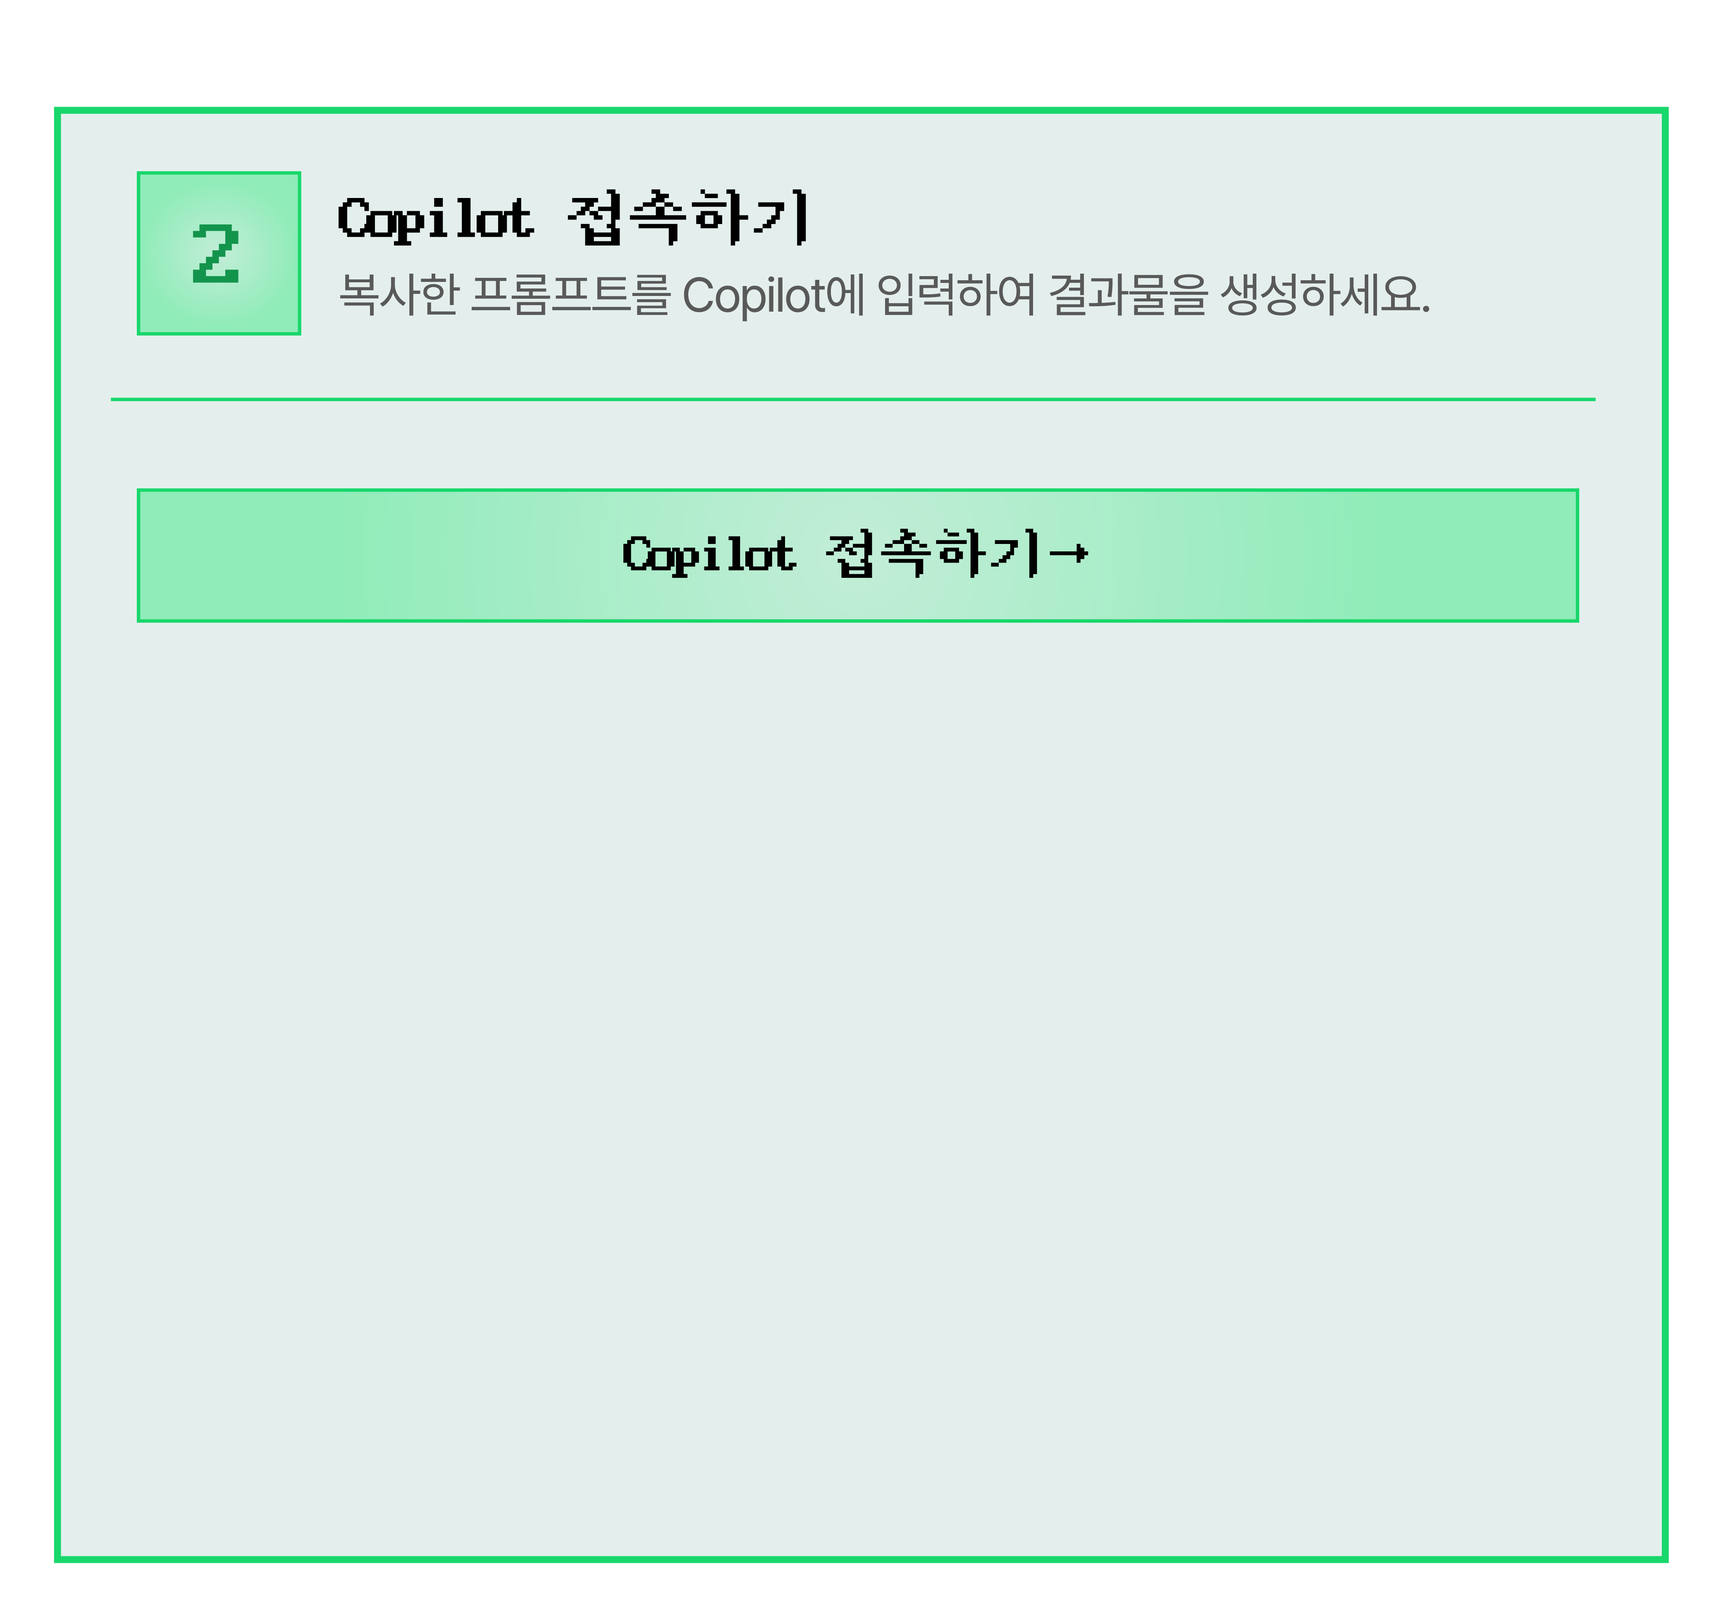
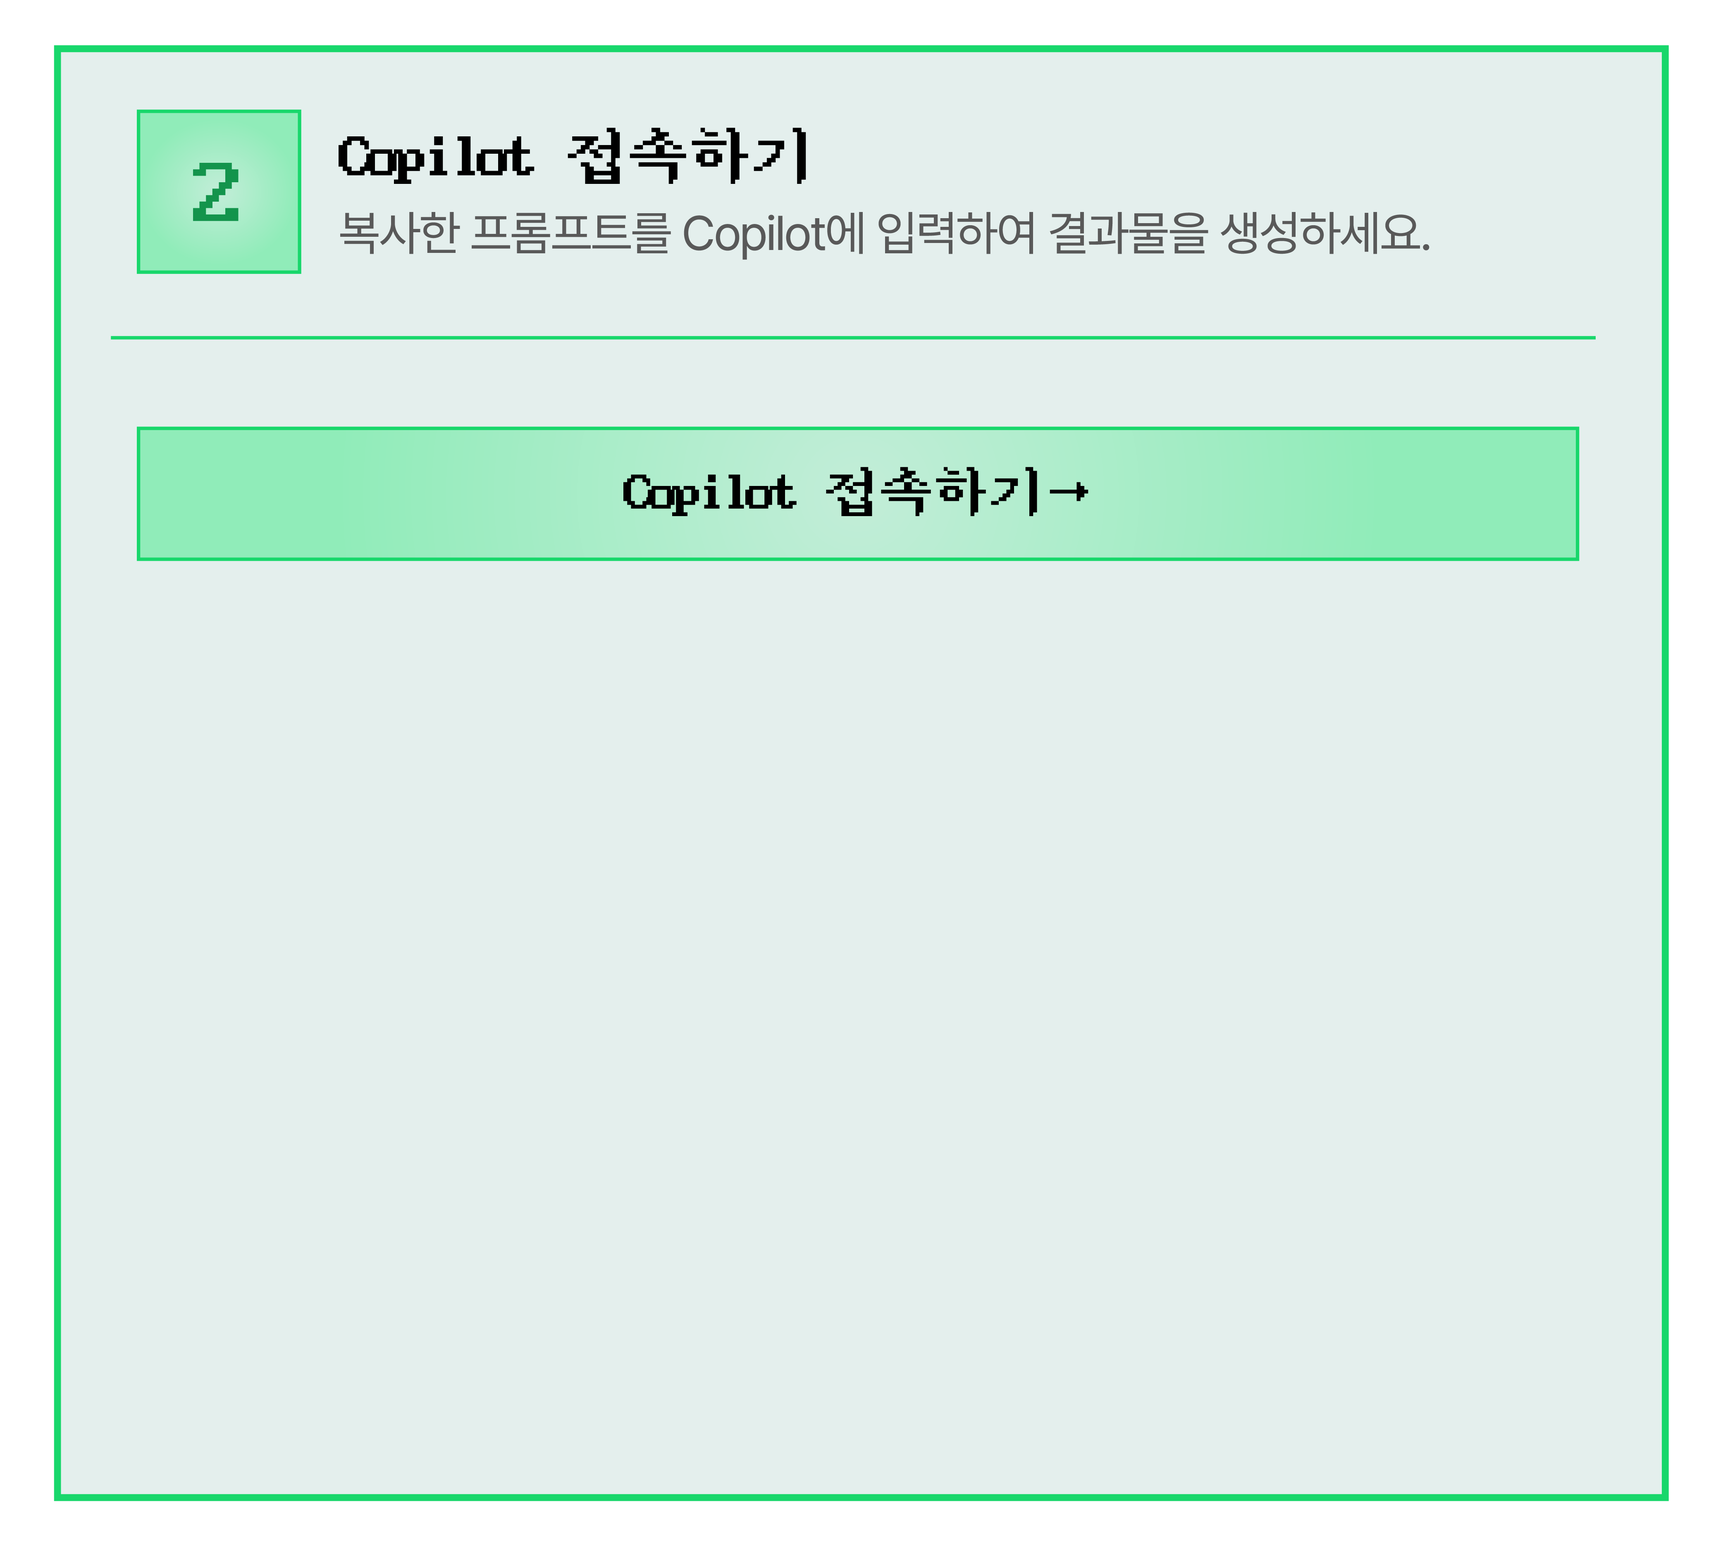
배경을 wallpaper 로 교체하고 비행기 스프라이트 적용, 이미지 용량 최적화
배경
- wallpaper 를 페이지 전체 고정 배경(#bg)으로 깔고 .stage 배경을 투명 처리
  → 02~06 이미지의 투명 여백으로 배경과 게임이 그대로 비쳐 하나의 게임 화면처럼 이어짐
- 레이어 순서 정리: wallpaper(0) → 게임 캔버스(1) → 스캔라인(2) → 본문(3) → HUD(4)
- 캔버스가 그리던 가짜 바다 배경(그라데이션·섬) 제거, 속도감용 포말만 유지

게임
- 플레이어기·적기를 Airplanes.png 스프라이트로 교체
  (플레이어 48px / 소형 적기 39px / 대형 적기 72px + 붉은 틴트)
  표시 크기의 2배로 미리 축소해 캐싱 — 매 프레임 1/10 축소 시 계단 현상 방지
  스프라이트 로딩 실패 시 기존 픽셀 드로잉으로 폴백
- 총알 발사 위치와 피격 범위를 새 스프라이트 크기에 맞춰 재조정
- 플레이어 시작 위치를 화면 중앙 → 왼쪽 여백으로 이동 (중앙은 본문에 가려 안 보임)
- HUD 상단에 파일럿 초상화(player.webp) 추가, 밝은 하늘 위 가독성을 위해 반투명 패널 적용

용량 (9.3MB → 2.2MB)
- wallpaper 4,419KB → 431KB, PD06-01 3,482KB → 668KB, player 503KB → 24KB (webp)
- 변환 원본 PNG 는 .gitignore 로 제외, 재변환 명령을 주석으로 남김

교체된 이미지에 맞춰 카드 슬라이스 높이 재실측 반영 (비율 0.9427 → 0.9069)
- 03·05 24% → 20.42%, 04 36.85% → 33.28%

Changed region(s): [[0.0312, 0.0312, 0.9669, 0.2185], [0.0624, 0.2497, 0.9357, 0.4058], [0.0312, 0.9365, 0.9669, 0.9677]]

diff --git a/index.html b/index.html
@@ -10,13 +10,15 @@
 <style>
 /* ══════════════════════════════════════════════════════════════
    PLAYDAY 06  —  이미지 원본 + 내용 영역만 세로로 늘어나는 구조
-   원본 이미지에서 추출한 값
-     · 패널 좌우 : 다크 0~3.12% / 네온 3.12~3.55% / 민트 3.55~96.45%
+   원본 이미지(2026-08-20 교체본)에서 실측한 값
+     · 프레임 좌우 : 투명 0~3.143% / 네온 3.143~3.527% / 민트 3.551~96.449%
+                     / 네온 96.449~96.833% / 투명 96.833~100%
+     · 02~06 은 바깥 여백이 투명 → 뒤의 wallpaper.png + 슈팅게임 캔버스가 그대로 비침
      · 콘텐츠 정렬선 : 좌우 8%
-     · 이미지 비율 : 4168 x 4395  (h/w = 1.0545)
+     · 이미지 비율 : 01) 4167x2997  02) 4167x2983  03~06) 4168x3780 (h/w = 0.9069)
    ══════════════════════════════════════════════════════════════ */
 :root{
-  --ink:       #061A18;
+  --sea:       #1B4E7C;   /* wallpaper 평균 바다색 — 배경 로딩 전 대체색 */
   --neon:      #18D76B;
   --neon-dark: #0F7A41;
   --btn:       #A7E8C2;
@@ -33,27 +35,44 @@
 html{ scroll-behavior:smooth; }
 body{
   margin:0; padding:0;
-  background:var(--ink);
+  background:var(--sea);
   font-family:var(--font);
   -webkit-font-smoothing:antialiased;
   overflow-x:hidden;
 }
 
-/* ── 배경 슈팅게임 ─────────────────────────────── */
-#sky{ position:fixed; inset:0; width:100%; height:100%; z-index:0; display:block; }
+/* ── 배경 레이어 ───────────────────────────────
+   0 wallpaper  →  1 슈팅게임 캔버스  →  2 스캔라인  →  3 본문  →  4 HUD
+   02~06 이미지는 바깥 여백이 투명이라 이 배경이 그대로 비쳐 하나의 게임 화면처럼 이어진다. */
+#bg{
+  position:fixed; inset:0; z-index:0; pointer-events:none;
+  background:
+    linear-gradient(rgba(2,16,34,.22), rgba(2,16,34,.42)),
+    url('wallpaper.webp') center center / cover no-repeat,
+    var(--sea);
+}
+#sky{ position:fixed; inset:0; width:100%; height:100%; z-index:1; display:block; }
 #scan{
-  position:fixed; inset:0; z-index:1; pointer-events:none;
+  position:fixed; inset:0; z-index:2; pointer-events:none;
   background:repeating-linear-gradient(to bottom, rgba(0,0,0,.16) 0 1px, transparent 1px 3px);
   opacity:.45;
 }
 /* ── 아케이드 HUD (본문 오른쪽) ────────────────── */
 #hud{
   display:none;               /* 본문 옆에 자리가 있을 때만 표시 (아래 미디어쿼리) */
-  position:fixed; top:18px; z-index:3; pointer-events:none;
-  width:132px;
+  position:fixed; top:18px; z-index:4; pointer-events:none;
+  width:150px; padding:12px 13px 11px;
+  /* 밝은 하늘 위에서도 읽히도록 반투명 콘솔 패널 */
+  background:rgba(3,20,38,.66);
+  border:1px solid rgba(126,196,236,.40);
+  box-shadow:0 6px 22px rgba(2,14,28,.45);
   font-family:ui-monospace,'Consolas','Menlo',monospace;
   font-size:12px; font-weight:700; letter-spacing:1px; line-height:1.6;
-  color:#DCEEF7; text-shadow:0 0 8px rgba(10,58,92,.9), 0 1px 0 #02121F;
+  color:#EAF6FD; text-shadow:0 1px 2px rgba(2,14,28,.9);
+}
+#hud .pilot{
+  display:block; width:100%; height:auto; margin:0 0 11px;
+  image-rendering:pixelated;   /* 픽셀아트 초상화 — 뭉개지지 않게 */
 }
 #hud .row{ display:flex; justify-content:space-between; align-items:baseline; }
 #hud .k{ color:#8FC4E4; font-weight:500; font-size:10px; letter-spacing:2px; }
@@ -80,10 +99,11 @@ body{
 
 /* ── 스테이지 ─────────────────────────────────── */
 .stage{
-  position:relative; z-index:2;
+  position:relative; z-index:3;
   width:100%; max-width:1000px; margin:0 auto;
-  background:var(--ink);
-  box-shadow:0 0 70px 24px rgba(6,26,24,.96);
+  /* 배경 없음 — 02~06 이미지의 투명 여백으로 #bg(wallpaper)와 캔버스가 그대로 비친다 */
+  background:transparent;
+  box-shadow:0 0 80px 26px rgba(2,18,38,.55);
 }
 
 /* 통이미지 섹션 (01 · 02 · 06) */
@@ -110,15 +130,16 @@ body{
 .card-top{ padding-top:var(--h); background-position:0 0;   margin-bottom:-1px; }
 .card-bot{ padding-top:var(--h); background-position:0 100%; margin-top:-1px; }
 
+/* 원본 이미지의 좌우 구성을 그대로 재현. 바깥쪽은 투명하게 두어
+   .stage 배경(=02 이미지와 같은 딥틸)이 위아래 이미지와 이어지게 한다. */
 .card-mid{
   background-image:
     linear-gradient(to right,
-      rgba(0,0,0,0) 3.12%,
-      #18D76B 3.12%, #18D76B 3.55%,
-      #E4EFED 3.55%, #E4EFED 96.45%,
-      #18D76B 96.45%, #18D76B 96.88%,
-      rgba(0,0,0,0) 96.88%),
-    linear-gradient(to bottom, #071917 0%, #03201D 45%, #051C1A 100%);
+      transparent 3.143%,
+      var(--neon) 3.143%, var(--neon) 3.527%,
+      var(--panel) 3.551%, var(--panel) 96.449%,
+      var(--neon) 96.449%, var(--neon) 96.833%,
+      transparent 96.833%);
 }
 .card-in{ padding:28px 8% 34px; color:var(--text); }
 
@@ -227,9 +248,11 @@ input::placeholder{ color:#9DB2AA; }
 
 <body>
 
+<div id="bg" aria-hidden="true"></div>
 <canvas id="sky" aria-hidden="true"></canvas>
 <div id="scan" aria-hidden="true"></div>
 <div id="hud" aria-hidden="true">
+  <img class="pilot" src="player.webp" alt="" />
   <div class="row"><span class="k">1P</span><span class="v" id="score">000000</span></div>
   <div class="row blk"><span class="k">STAGE</span><span class="v stage" id="stage">1-1</span></div>
   <div class="row blk"><span class="k">POWER</span><span class="v" id="plv">Lv1</span></div>
@@ -242,7 +265,7 @@ input::placeholder{ color:#9DB2AA; }
 
   <!-- ══ 01. 히어로 ══════════════════════════════ -->
   <section class="shot">
-    <img src="이미지/PD06-01.png"
+    <img src="이미지/PD06-01.webp"
          alt="PLAYDAY - 동료들과 함께 즐길 수 있는 게임 제작!" />
   </section>
 
@@ -260,7 +283,7 @@ input::placeholder{ color:#9DB2AA; }
   <!-- ══ 03. STEP 1 게임 기획하기 ═════════════════ -->
   <section class="card" id="step1">
     <div class="card-top" role="img" aria-label="1. 게임 기획하기 - 만들고 싶은 게임을 자유롭게 적어주세요."
-         style="--h:25.432%; background-image:url('이미지/PD06-03.png');"></div>
+         style="--h:20.42%; background-image:url('이미지/PD06-03.png');"></div>
 
     <div class="card-mid"><div class="card-in">
 
@@ -332,13 +355,13 @@ input::placeholder{ color:#9DB2AA; }
     </div></div>
 
     <div class="card-bot" aria-hidden="true"
-         style="--h:17.635%; background-image:url('이미지/PD06-03.png');"></div>
+         style="--h:4.68%; background-image:url('이미지/PD06-03.png');"></div>
   </section>
 
   <!-- ══ 04. STEP 2 Copilot 접속하기 ══════════════ -->
   <section class="card" id="step2">
     <div class="card-top" role="img" aria-label="2. Copilot 접속하기 - 복사한 프롬프트를 Copilot에 입력하여 결과물을 생성하세요."
-         style="--h:37.428%; background-image:url('이미지/PD06-04.png');">
+         style="--h:33.28%; background-image:url('이미지/PD06-04.png');">
       <a class="hot" href="https://m365.cloud.microsoft/chat/" target="_blank" rel="noopener"
          aria-label="Copilot 접속하기"
          style="left:7.97%; top:75.77%; width:84.06%; height:20.77%;"></a>
@@ -358,13 +381,13 @@ input::placeholder{ color:#9DB2AA; }
     </div></div>
 
     <div class="card-bot" aria-hidden="true"
-         style="--h:17.635%; background-image:url('이미지/PD06-04.png');"></div>
+         style="--h:4.68%; background-image:url('이미지/PD06-04.png');"></div>
   </section>
 
   <!-- ══ 05. STEP 3 결과물 다듬기 ═════════════════ -->
   <section class="card" id="step3">
     <div class="card-top" role="img" aria-label="3. 결과물 다듬기 - 한 번에 완성되지 않습니다. 고쳐가며 완성해주세요."
-         style="--h:25.432%; background-image:url('이미지/PD06-05.png');"></div>
+         style="--h:20.42%; background-image:url('이미지/PD06-05.png');"></div>
 
     <div class="card-mid"><div class="card-in">
       <div class="tips">
@@ -409,7 +432,7 @@ input::placeholder{ color:#9DB2AA; }
     </div></div>
 
     <div class="card-bot" aria-hidden="true"
-         style="--h:17.635%; background-image:url('이미지/PD06-05.png');"></div>
+         style="--h:4.68%; background-image:url('이미지/PD06-05.png');"></div>
   </section>
 
   <!-- ══ 06. STEP 4 게임 업로드 ═══════════════════ -->
@@ -527,7 +550,7 @@ input::placeholder{ color:#9DB2AA; }
   var MONO = "ui-monospace,'Consolas','Menlo',monospace";
   var reduce = window.matchMedia('(prefers-reduced-motion: reduce)').matches;
   var player = { x:0, y:0, tx:0, ty:0, cool:0 };
-  var bullets=[], ebullets=[], enemies=[], parts=[], waves=[], isles=[], items=[];
+  var bullets=[], ebullets=[], enemies=[], parts=[], waves=[], items=[];
 
   function resize(){
     DPR = Math.min(window.devicePixelRatio || 1, 2);
@@ -536,21 +559,61 @@ input::placeholder{ color:#9DB2AA; }
     cvs.style.width = W+'px'; cvs.style.height = H+'px';
     ctx.setTransform(DPR,0,0,DPR,0,0);
     ctx.imageSmoothingEnabled = false;
-    if(!player.x){ player.x = player.tx = W*0.5; player.y = player.ty = H*0.72; }
+    /* 본문(최대 1000px)이 화면 가운데를 덮으므로, 시작 위치는 왼쪽 여백에 둔다 */
+    if(!player.x){
+      player.x = player.tx = Math.max(40, Math.min(W*0.5, (W-1000)/2 * 0.55));
+      player.y = player.ty = H*0.72;
+    }
   }
   window.addEventListener('resize', resize); resize();
 
   for(var i=0;i<95;i++) waves.push({ x:Math.random(), y:Math.random(), w:6+Math.random()*26,
                                      s:.35+Math.random()*.9, br:Math.random()<.3 });
-  function spawnIsle(){
-    isles.push({ x:Math.random(), y:-.25, w:40+Math.random()*140, h:30+Math.random()*90, s:.16+Math.random()*.12 });
-    if(isles.length>7) isles.shift();
-  }
-  for(var j=0;j<5;j++){ spawnIsle(); isles[isles.length-1].y = Math.random(); }
 
   function px(x,y,w,h,c){ ctx.fillStyle=c; ctx.fillRect(Math.round(x),Math.round(y),Math.round(w),Math.round(h)); }
 
+  /* ── 비행기 스프라이트 (Airplanes.png) ──
+     원본은 기수가 위를 향한 1장. 적기는 180° 돌리고, 대형기는 붉게 물들여 구분한다.
+     로드 전에는 아래의 픽셀 드로잉으로 대체된다. */
+  var SPR = new Image(), sprUp=null, sprDn=null, sprBig=null, sprRatio=1;
+  /* 원본이 381px 라 매 프레임 1/10 로 줄이면 계단이 심하다.
+     표시 크기의 2배(레티나 기준 1:1)로 미리 축소해 두고 그 뒤엔 그대로 얹는다. */
+  function variant(deg, tint, w){
+    var h = Math.round(w * SPR.height / SPR.width);
+    var c = document.createElement('canvas'); c.width = w; c.height = h;
+    var g = c.getContext('2d');
+    g.imageSmoothingEnabled = true; g.imageSmoothingQuality = 'high';
+    g.translate(w/2, h/2); g.rotate(deg*Math.PI/180);
+    g.drawImage(SPR, -w/2, -h/2, w, h);
+    if(tint){
+      g.setTransform(1,0,0,1,0,0);
+      g.globalCompositeOperation = 'source-atop';
+      g.fillStyle = tint; g.fillRect(0,0,w,h);
+    }
+    return c;
+  }
+  SPR.onload = function(){
+    sprRatio = SPR.height / SPR.width;
+    sprUp  = variant(0,   null, 96);                      /* 플레이어   표시 48px */
+    sprDn  = variant(180, null, 80);                      /* 소형 적기  표시 39px */
+    sprBig = variant(180, 'rgba(206,58,38,.42)', 148);    /* 대형 적기  표시 72px */
+  };
+  SPR.src = 'Airplanes.png';
+
+  /* 화면폭 w 로 스프라이트를 중앙 정렬해 그린다 */
+  function blit(img, x, y, w){
+    var h = w * sprRatio;
+    ctx.drawImage(img, Math.round(x-w/2), Math.round(y-h/2), Math.round(w), Math.round(h));
+    return h;
+  }
+
   function drawPlayer(x,y,s){
+    if(sprUp){
+      var h = blit(sprUp, x, y, 15*s);
+      if(t % 8 < 4) px(x-1.2*s, y+h/2-3, 2.4*s, 5, 'rgba(255,206,90,.95)');
+      px(x-0.6*s, y+h/2-1, 1.2*s, 7, 'rgba(255,160,60,.75)');
+      return;
+    }
     px(x-1.5*s, y-5*s,  3*s, 10*s, '#DDE9E4');
     px(x-6*s,   y-0.5*s, 12*s, 2.5*s, '#B4C7C0');
     px(x-6*s,   y+2*s,   2*s, 1.5*s, '#7F9A90');
@@ -563,6 +626,10 @@ input::placeholder{ color:#9DB2AA; }
   /* 대형기 = 플라잉윙 폭격기 / 소형기 = 흰색 전투기 (1945 스타일) */
   function drawEnemy(e){
     var s=e.s;
+    if(sprDn){
+      blit(e.big ? sprBig : sprDn, e.x, e.y, (e.big ? 16 : 13) * s);
+      return;
+    }
     if(e.big){
       px(e.x-9*s,   e.y-1*s,   18*s, 3*s,   '#8FA3B0');
       px(e.x-6*s,   e.y-3.5*s, 12*s, 2.5*s, '#6E838F');
@@ -609,8 +676,8 @@ input::placeholder{ color:#9DB2AA; }
   ];
   function shoot(){
     var pat = PATTERN[Math.min(pw, MAXLV)-1];
-    for(var i=0;i<pat.length;i++)
-      bullets.push({ x:player.x+pat[i][0], y:player.y-14, vx:pat[i][1] });
+    for(var i=0;i<pat.length;i++)   /* -22 = 스프라이트 기수 위치 */
+      bullets.push({ x:player.x+pat[i][0], y:player.y-22, vx:pat[i][1] });
   }
   function useBomb(){
     if(bombs <= 0) return;
@@ -634,23 +701,14 @@ input::placeholder{ color:#9DB2AA; }
 
   function step(){
     t++;
-    /* ── 푸른 바다 배경 ── */
-    var g = ctx.createLinearGradient(0,0,0,H);
-    g.addColorStop(0,'#031A2E'); g.addColorStop(.5,'#0A3E63'); g.addColorStop(1,'#04223A');
-    ctx.fillStyle = g; ctx.fillRect(0,0,W,H);
+    /* 배경은 #bg 의 wallpaper.png 가 담당한다 — 캔버스는 비우고 그 위에 그린다 */
+    ctx.clearRect(0,0,W,H);
 
-    if(t % 150 === 0) spawnIsle();
-    for(var k=isles.length-1;k>=0;k--){
-      var il = isles[k]; il.y += il.s/H*6;
-      if(il.y > 1.3){ isles.splice(k,1); continue; }
-      px(il.x*W-il.w/2,    il.y*H,    il.w,     il.h,     'rgba(8,42,68,.60)');   /* 수심 그림자 */
-      px(il.x*W-il.w/2+5,  il.y*H+5,  il.w*.74, il.h*.62, 'rgba(26,80,112,.55)'); /* 얕은 여울 */
-      px(il.x*W-il.w/2+14, il.y*H+12, il.w*.40, il.h*.32, 'rgba(120,140,120,.35)'); /* 모래섬 */
-    }
+    /* 비행 속도감을 주는 흰 포말 줄기만 남긴다 */
     for(var w0=0;w0<waves.length;w0++){
       var wv = waves[w0]; wv.y += wv.s/H*2.4;
       if(wv.y > 1){ wv.y = -0.02; wv.x = Math.random(); }
-      px(wv.x*W, wv.y*H, wv.w, 2, wv.br ? 'rgba(200,240,255,.16)' : 'rgba(140,205,240,.09)');
+      px(wv.x*W, wv.y*H, wv.w, 2, wv.br ? 'rgba(235,250,255,.20)' : 'rgba(200,232,252,.10)');
     }
 
     player.x += (player.tx-player.x)*0.16;
@@ -682,9 +740,11 @@ input::placeholder{ color:#9DB2AA; }
         ebullets.push({ x:en.x, y:en.y+12, vx:dx/d*2.1, vy:dy/d*2.1 });
       }
 
+      /* 피격 범위 — 스프라이트 크기에 맞춘 값 */
+      var hx = en.s * (en.big ? 7.5 : 6), hy = en.s * (en.big ? 7 : 5.5);
       for(var b2=bullets.length-1;b2>=0;b2--){
         var bb = bullets[b2];
-        if(Math.abs(bb.x-en.x) < en.s*5 && Math.abs(bb.y-en.y) < en.s*5){
+        if(Math.abs(bb.x-en.x) < hx && Math.abs(bb.y-en.y) < hy){
           bullets.splice(b2,1); en.hp--; boom(en.x,en.y,4,'#DFF7E9');
           if(en.hp <= 0){
             boom(en.x,en.y, en.big?26:14, en.big?'#E6D050':'#18D76B');
